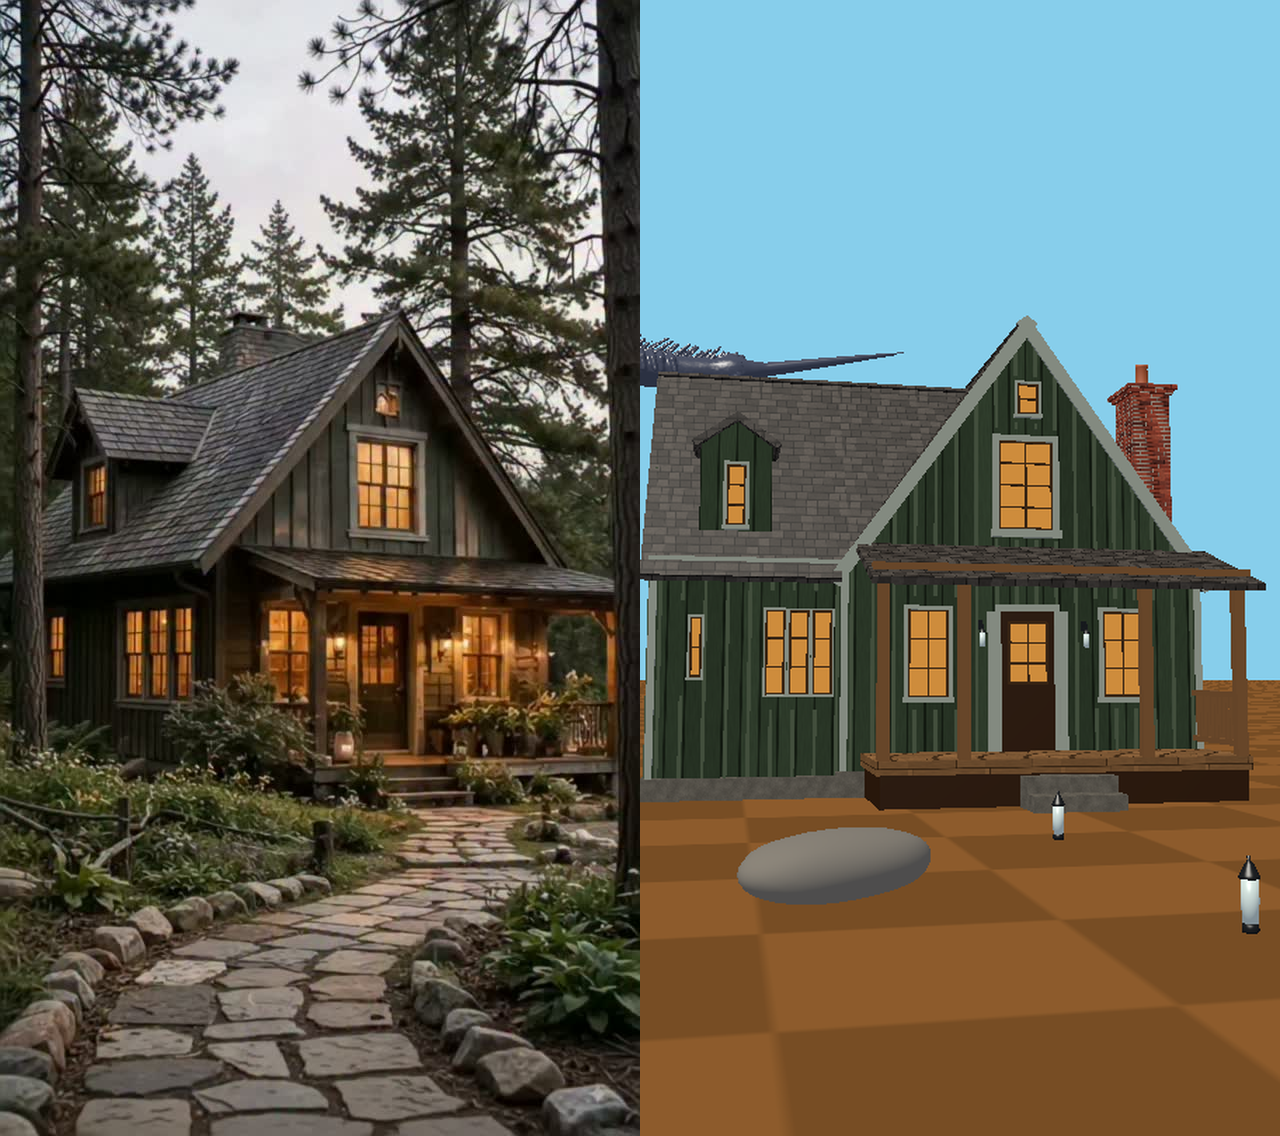
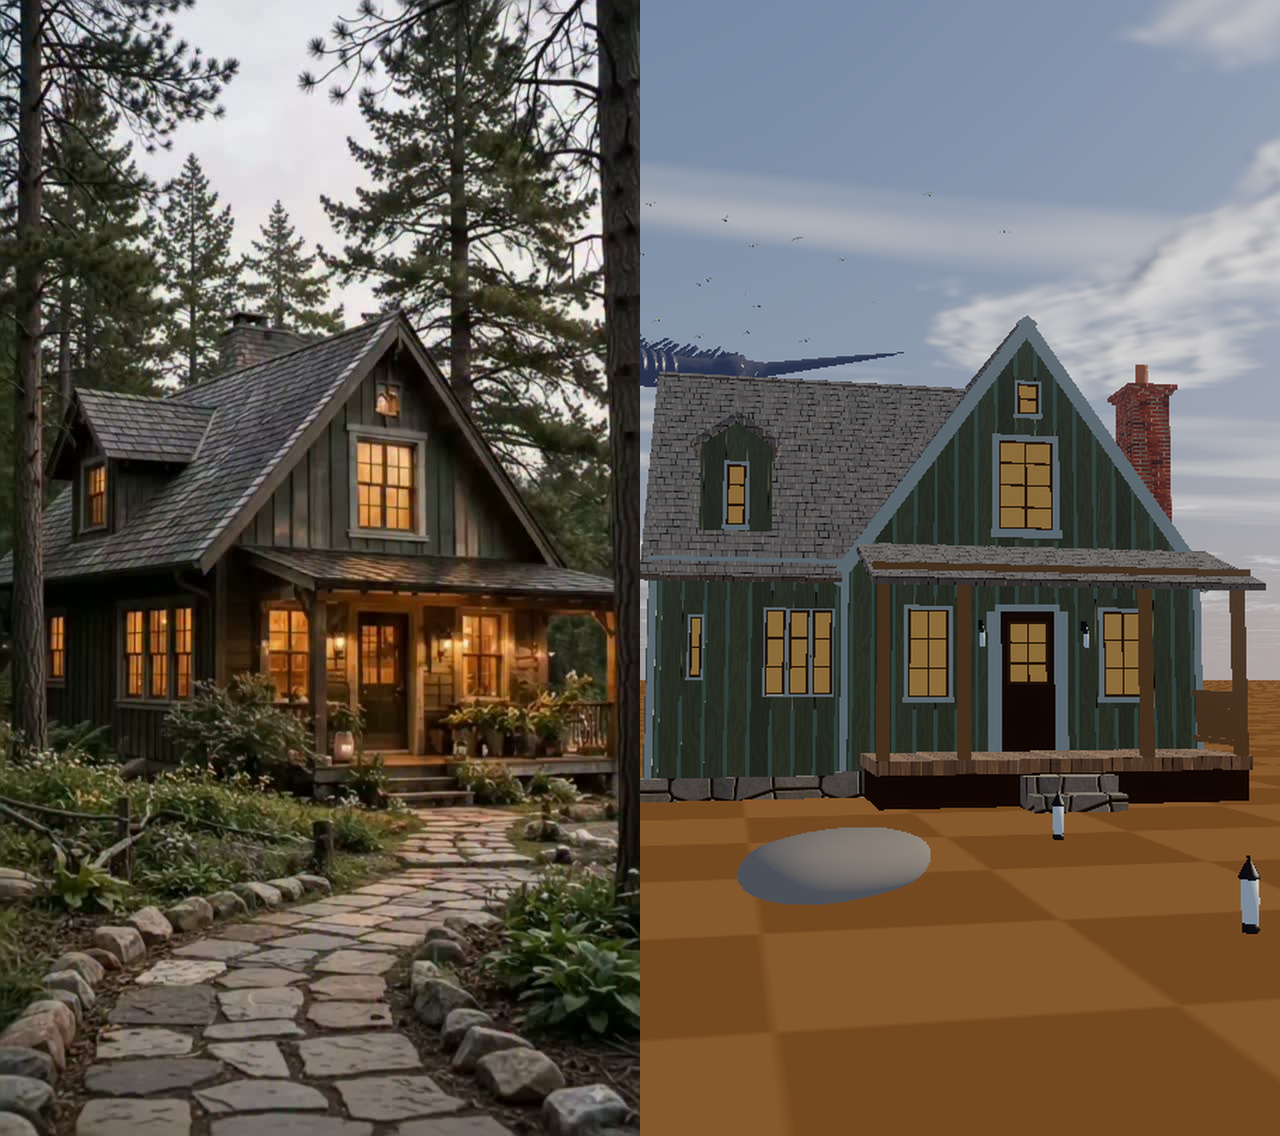
The cottage's walls, roof, deck, plinth and steps take the procedural texture kit
The paint tiles of cottage.cone (boards, shingles, deck, stone) are replaced
by maps baked from Cone's surfacepatterns package: siding as plain boards
0.3 m wide for the walls (the real battens stay geometry, and the tile's seams
are slid to lie under them), cedar shingles tinted slate grey for the roofs,
decking for the porch, and garden flagstones for the plinth and steps. Each is
a physically based material with colour, normal and ORM maps, and the meshes'
uvs are metres over each tile's side. The walls and the stone bake at 512
squared, the roof and deck at 256, adding about 0.6 s to the cottage's
hydration (294 ms to 874 ms). The chimney is unchanged.

diff --git a/browser/README.md b/browser/README.md
@@ -316,7 +316,7 @@ frames keep coming while the world arrives.
 | horn-flower (stalk, leaves, petals, heart) | new (`hornflower.cone`): the horn, 2.4 m and cut short; `sculpt/examples/flower.cone`'s petals on the cut; five swept leaves | 2 m | 99,956 | 39 |
 | boulder | `sculpt/examples/pebble.cone` (one more subdivision) | 2 m | 768 | 0.4 |
 | horn | `sculpt/examples/hornfamily.cone`, stage 0 | 3 m along | 46,204 | 18 |
-| cottage (26 parts: plinth, walls, battens, roofs, trim, window frames and panes, door and its panes, porch deck, skirt, posts, roof and steps, chimney shaft, stack, flaunching and pot, two wall lanterns) | new (`cottage.cone`, `chimney.cone`): measured from the reference frame with the door as the ruler (below); boxes, prisms and slabs; board, shingle, deck and stone paint tiles; the chimney is the stack of step 4 on a brick shaft from the ground, 3.3 m + 4 m | 7 m to the ridge, 7.3 m to the pot | 5,044 | 270 (the chimney's maps 254 of it) |
+| cottage (26 parts: plinth, walls, battens, roofs, trim, window frames and panes, door and its panes, porch deck, skirt, posts, roof and steps, chimney shaft, stack, flaunching and pot, two wall lanterns) | new (`cottage.cone`, `chimney.cone`): measured from the reference frame with the door as the ruler (below); boxes, prisms and slabs; board, shingle, deck and flagstone maps from the `surfacepatterns` texture kit; the chimney is the stack of step 4 on a brick shaft from the ground, 3.3 m + 4 m | 7 m to the ridge, 7.3 m to the pot | 5,044 | 870 (the texture kit's four bakes 610, the chimney's maps 260) |
 | path lanterns (three: stake, glass, bulb, cap each) | new (`cottage.cone`): four lathes and a sphere in three shared materials | 0.5 m | 2,892 | 0.24 |
 | hot-air balloon (envelope, skirt, burner frame, cables, basket, passengers) | `sculpt/examples/balloon.cone`, the chevrons | 25 m | 74,264 | 52 |
 | burner flame (core, tongue, embers) and pilot light | `vfx/examples/burner.cone`, live, fired in bursts | 3 m | particles | (in the balloon's) |
@@ -370,13 +370,17 @@ edge in the frame runs across, not back.
 
 **What is real geometry and what is material.** The battens are strips (5 cm wide, 2.5 cm proud, every 0.3 m on
 the front walls, the wing's end and the main block's right and left walls, cut round the door and windows);
-the boards between them are the wall material's paint. The shingles are the roof material's paint (rows 16 cm
-deep) on slabs 12 cm thick, not rows of geometry. The windows are real: a casing, a sash with muntins, and a pane
+the boards between them are the wall material's maps (surfacepatterns' siding, as plain boards 0.3 m wide, the
+tile's seams slid to lie under the battens). The shingles are the roof material's maps (surfacepatterns' cedar,
+courses 14 cm deep, tinted slate grey) on slabs 12 cm thick, not rows of geometry. The windows are real: a casing, a sash with muntins, and a pane
 that is a part of its own (all the windows' panes are one part, the door's another). Every surface kind is one
 material defined in `ctMaterials`, shared by every part of that kind: board, batten, shingle, trim, window
-frame, pane, door, timber, deck and stone; the paint tiles (boards 2 m, shingles 1.28 m, deck planks 1.12 m,
-stone) are made in `ctBoardPaint`, `ctShinglePaint`, `ctDeckPaint` and `ctStonePaint`, and are what the
-texture kit's maps replace. The brick chimney is `chimney.cone`'s stack, unchanged, standing on a shaft of 44
+frame, pane, door, timber, deck and stone. Four of them are baked from the `surfacepatterns` texture kit (a
+physically based material with colour, normal and ORM maps) in `ctBakeBoards` (siding, 512 x 512 over 1.8 m),
+`ctBakeShingles` (cedar, 256 over 1.12 m), `ctBakeDeck` (decking, 256 over 1.68 m) and `ctBakeStone` (garden
+flagstones, 512 over 2 m); the meshes' uvs are metres over each tile's side. The four bakes take about 0.6 s of
+the cottage's hydration. The renderer keeps no mip levels, so the roof and deck shimmer a little as the camera
+moves. The brick chimney is `chimney.cone`'s stack, unchanged, standing on a shaft of 44
 more courses of the same bond from the ground to the eave, on the right eave wall; its pot is 0.3 m above the
 ridge. The three path lanterns and the two wall lanterns are one family (stake or bracket, glass, bulb, cap), the
 glass and the bulb each its own part, in three materials the world shares.
